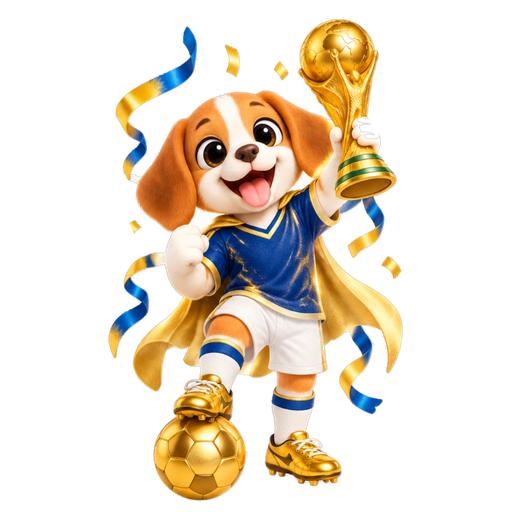
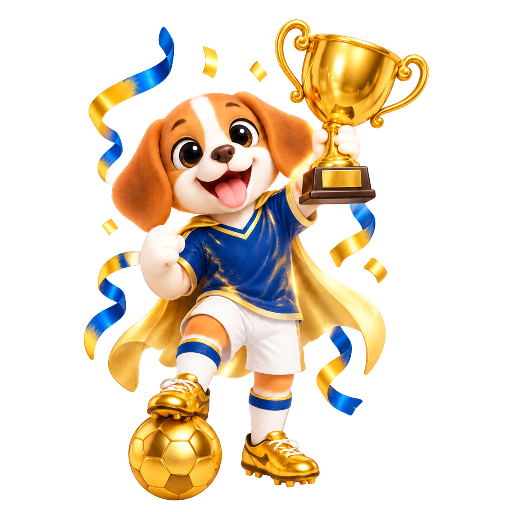
寵物蛋：路線圖補完 19 條（跳跳兔種植/舞蹈/烘焙、企企全部、小熊全部、貓頭鷹全部、獨角獸全部）＋汪汪足球傳說換一般獎盃；共 31 條待驗收，尚未加進 ART；附 node 版切圖工具

diff --git a/pets/tools/README.md b/pets/tools/README.md
@@ -1,21 +1,19 @@
 # 寵物人生路線圖：阿居畫圖 → 切圖
 
-## 進度（2026-10-23）
-- 已畫好、已去背、放在 img/（**還沒加進 index.html 的 ART，孩子看不到**，等 SUNNY 驗收）：
-  dragon_math / actuary / chef / astro，cat_boxing / detective / piano / fashion，
-  dog_rescue / vet / soccer / engineer，bunny_jump（共 13 條）
-- 要重畫：dog_soccer 傳說（獎盃太像真實的世界盃獎盃，改成一般金色大獎盃）
-- 還沒畫（18 條）：bunny_farm / ballet / baker，penguin_swim / polar / weather / robot，
-  bear_boss / lift / forest / doctor，owl_writer / star / teacher / chess，
-  unicorn_paint / magic / sing / prism
-- 驗收頁（claude.ai artifact「寵物路線新圖驗收」）目前只放前 7 條
+## 進度（2026-10-23 晚）
+- **31 條全部畫完、去背切好，放在 img/**（`<寵物>_<路線>_2/3/4.png`），**還沒加進 index.html 的 ART，孩子看不到**，等 SUNNY 驗收。
+- dog_soccer 傳說已重畫（一般金色雙耳獎盃，不像世界盃）。
+- 驗收頁：浩克工作室 `程式碼\三年級寵物蛋\測試畫面\寵物路線驗收.html`（`node review.cjs` 產生，可切深色底看去背邊）。
+- 阿居原圖存浩克工作室 `程式碼\三年級寵物蛋\img\阿居原圖\raw_<路線>.png`。
 
-## 做法
-1. 用 Claude in Chrome 開 chatgpt.com（SUNNY 的 Plus 帳號），每條路線開一個新對話（可同時開 3 個分頁一起畫）。
-2. 上傳參考圖 `img/<寵物>_1.png`，貼上 `python3 prompts.py <路線代號>` 印出的指令。
-   注意：輸入框會殘留上一則草稿，貼之前先全選清掉；指令不要有換行（換行會直接送出）。
-3. 畫好後在頁面上用一層白底 overlay 把圖放成 1536×1024 原尺寸，分上下兩段截圖（zoom + save_to_disk）。
-4. `SEEDS="x:y;x:y;x:y" bash run.sh <路線代號> <上半截圖> <下半截圖>` → `out/<路線>_2/3/4.png`（512×512 透明背景）。
-   SEEDS＝拼好後 1536×1024 座標裡三隻身體的位置；不給就用腳的位置自動分（有頒獎台、鋼琴這類大道具時會分錯）。
-   去背門檻 WT 預設 247（白袍不會被吃掉）。
-5. 圖放進 `img/`；SUNNY 看過 OK 才把檔名加進 `index.html` 的 `ART`。
+## 做法（Windows 電腦浩克，沒有 Python → 用 node 版）
+1. Claude in Chrome 開 chatgpt.com，**每條路線開一個全新分頁**（Chrome 會擋同一分頁的第二次自動下載）。
+2. `file_upload` 上傳參考圖 `程式碼\三年級寵物蛋\img\<寵物>_1.png`（只能傳浩克工作室內的檔）。
+3. 指令用 `node prompt.cjs <路線>` 產生；用 JS 塞進 `.ProseMirror` 輸入框（`execCommand('insertText')`，不要用鍵盤打，會被輸入法改字），再點 `button[aria-label=傳送]`。
+4. 畫好後在同一分頁用 JS 抓 `img[alt^=產生的圖片]` 的 blob → `<a download>` 存到「下載」（1536×1024 原圖）。
+5. `node cut3.cjs <原圖> out/<路線>` → `_2/_3/_4.png`（512 透明）＋ `_preview.png`。
+   - 預設用連通塊分三隻（三隻沒互碰就全自動），道具小塊歸最近那隻；手臂圍住的白底會自動挖掉。
+   - 三隻黏在一起：`SEEDS="x:y|x:y;x:y;x:y"`（原圖座標，每隻可給多點）。真的切不乾淨就請阿居「三隻拉開距離重畫」比較快。
+   - 單隻重畫：`ONE=1 node cut3.cjs <原圖> out/<路線>_4`。
+6. 圖放進 `img/`；SUNNY 看過 OK 才把檔名加進 `index.html` 的 `ART`。
+（舊的 Python 版 prompts.py / cut.py / run.sh 保留，雲端 Linux 環境用。）
